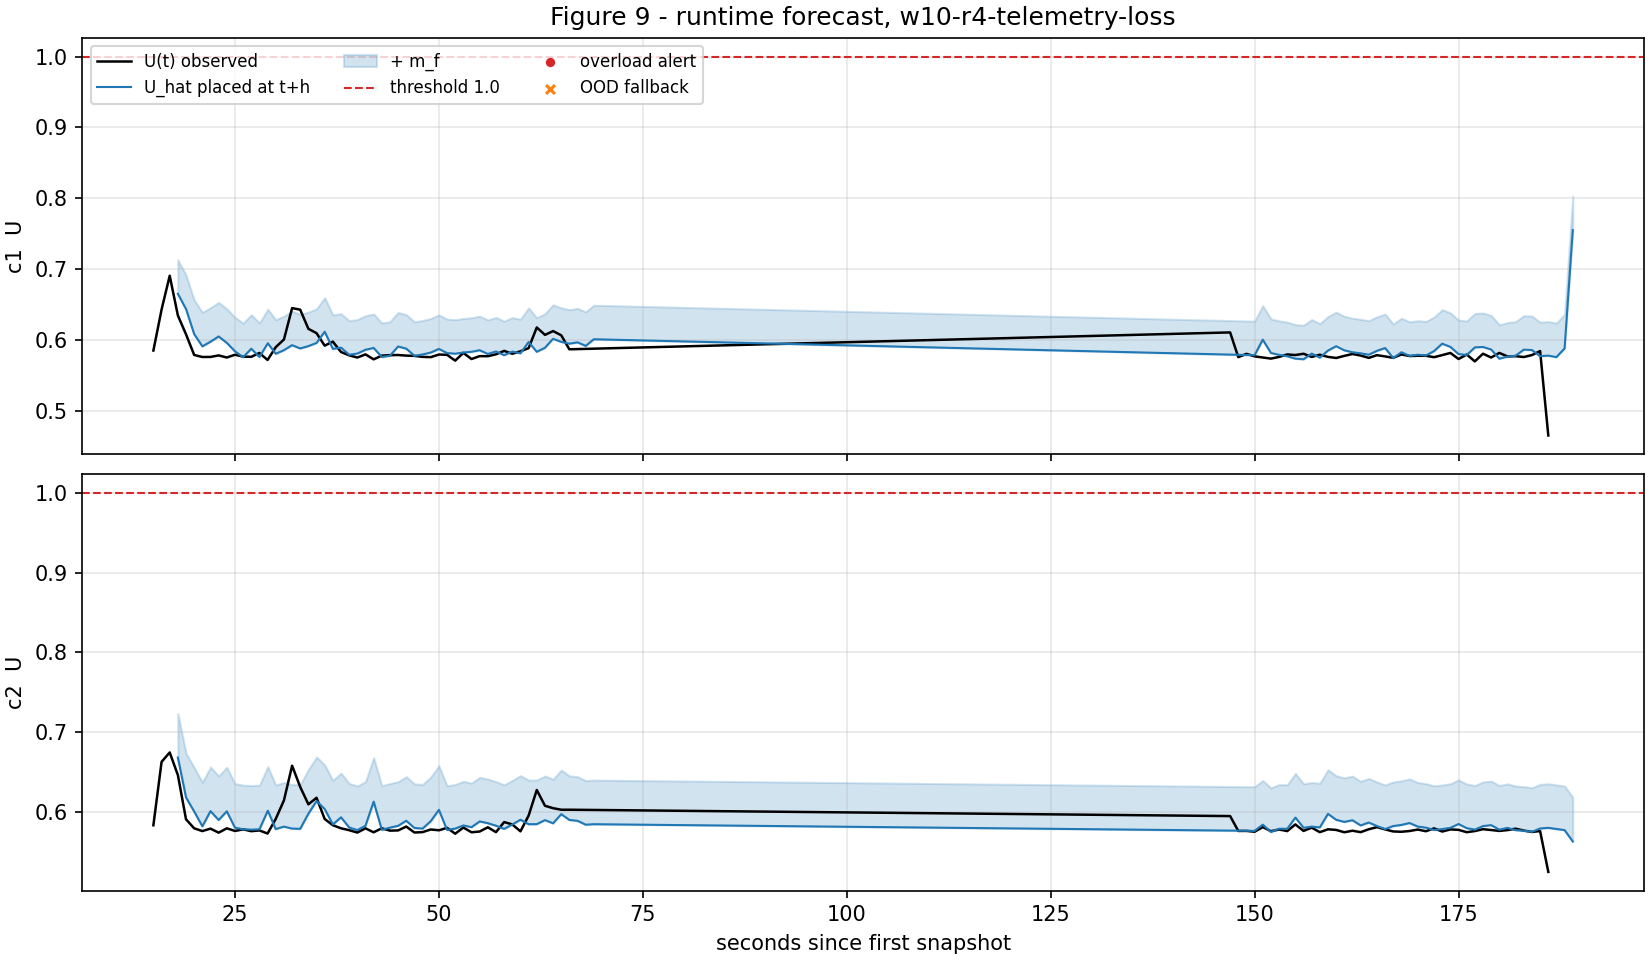
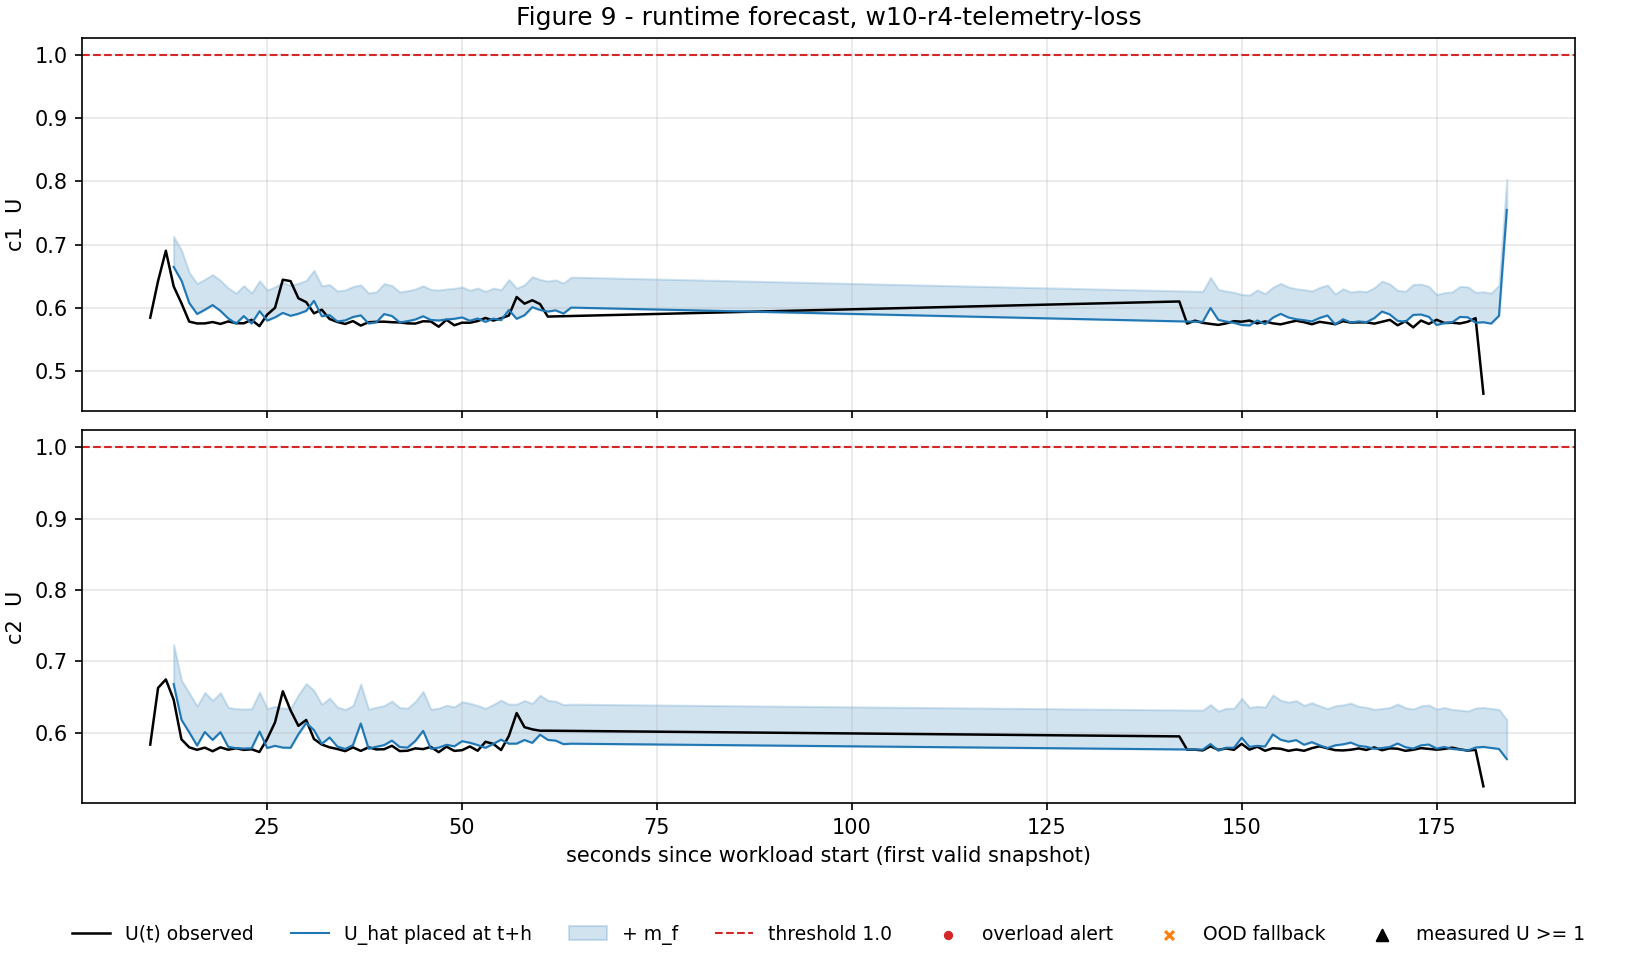
eval: Figure 9 legend below plots, mark measured overloads; sync latency copy

diff --git a/scripts/analysis/forecast_runtime_report.py b/scripts/analysis/forecast_runtime_report.py
@@ -189,11 +189,17 @@ def plot(run_id: str, rows: list[dict[str, Any]], output: Path) -> None:
         axis.scatter([sec(r, float(r["horizon_seconds"])) for r in ood],
                      [r["predicted_utilization"] for r in ood],
                      marker="x", color="tab:orange", s=18, zorder=3, label="OOD fallback")
+        over = [r for r in seen if float(r["current_utilization"]) >= THRESHOLD]
+        axis.scatter([sec(r) for r in over], [r["current_utilization"] for r in over],
+                     marker="^", color="black", s=30, zorder=4, label="measured U >= 1")
         axis.set_ylabel(f"{cid}  U")
         axis.grid(alpha=0.3)
     axes[0, 0].set_title(f"Figure 9 - runtime forecast, {run_id}")
-    axes[0, 0].legend(loc="upper left", fontsize=8, ncol=3)
-    axes[-1, 0].set_xlabel("seconds since first snapshot")
+    # Legend under the plots: inside an axis it hides alerts near the threshold.
+    handles, labels = axes[0, 0].get_legend_handles_labels()
+    axes[-1, 0].legend(handles, labels, loc="upper center", bbox_to_anchor=(0.5, -0.28),
+                       ncol=len(labels), fontsize=9, frameon=False)
+    axes[-1, 0].set_xlabel("seconds since workload start (first valid snapshot)")
     fig.savefig(output, dpi=150)
     plt.close(fig)
 
@@ -218,7 +224,7 @@ def main() -> int:
         (args.output_dir / f"{run_id}_summary.json").write_text(
             json.dumps(summary, indent=2) + "\n", encoding="utf-8"
         )
-        plot(run_id, rows, args.output_dir / f"fig9_{run_id}.png")
+        plot(run_id, active_window(rows), args.output_dir / f"fig9_{run_id}.png")
         print(json.dumps(summary, indent=2))
 
     flat = [k for k, v in summaries[0].items() if not isinstance(v, dict)]
